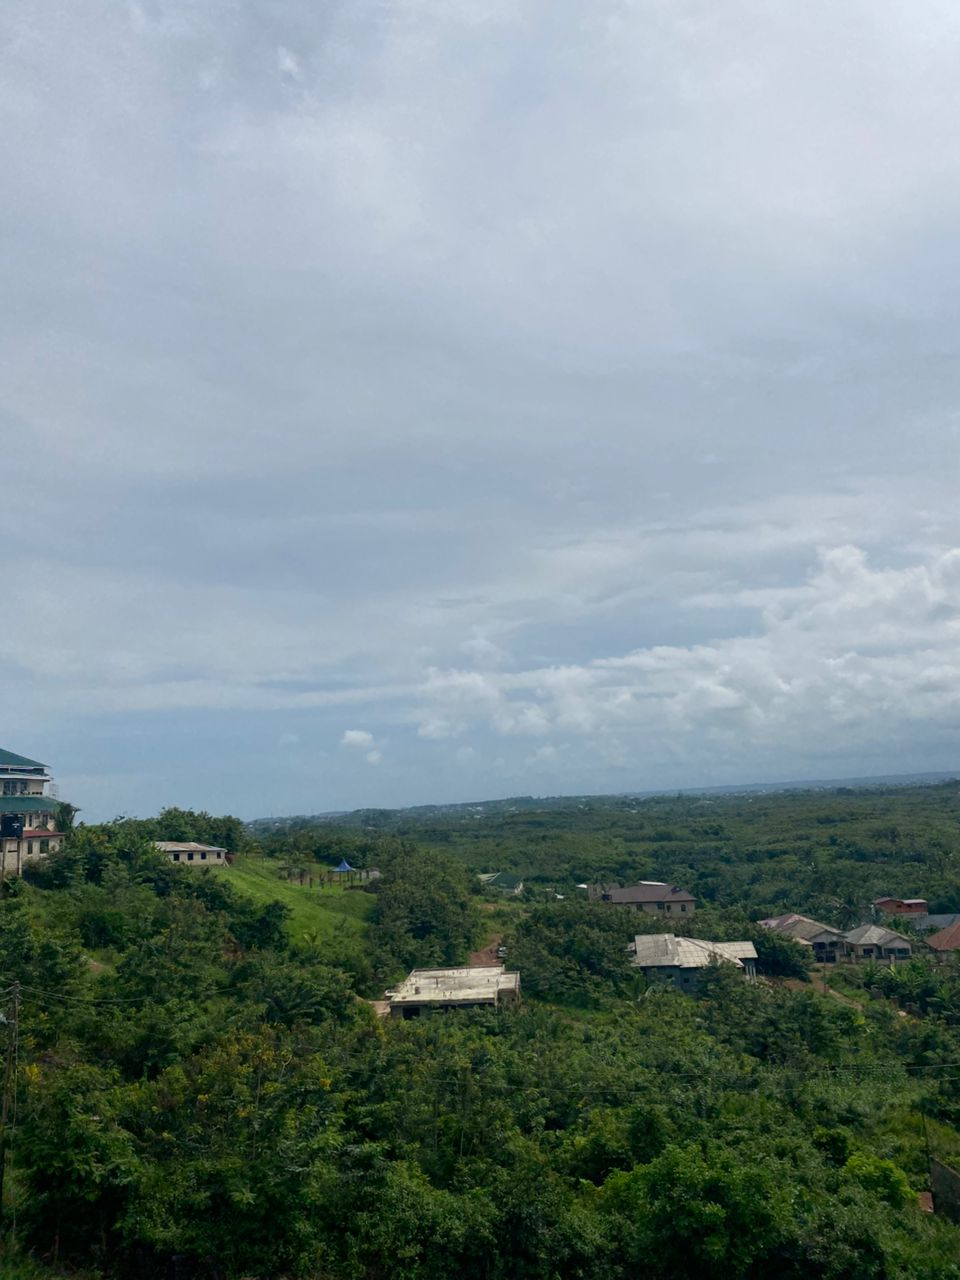
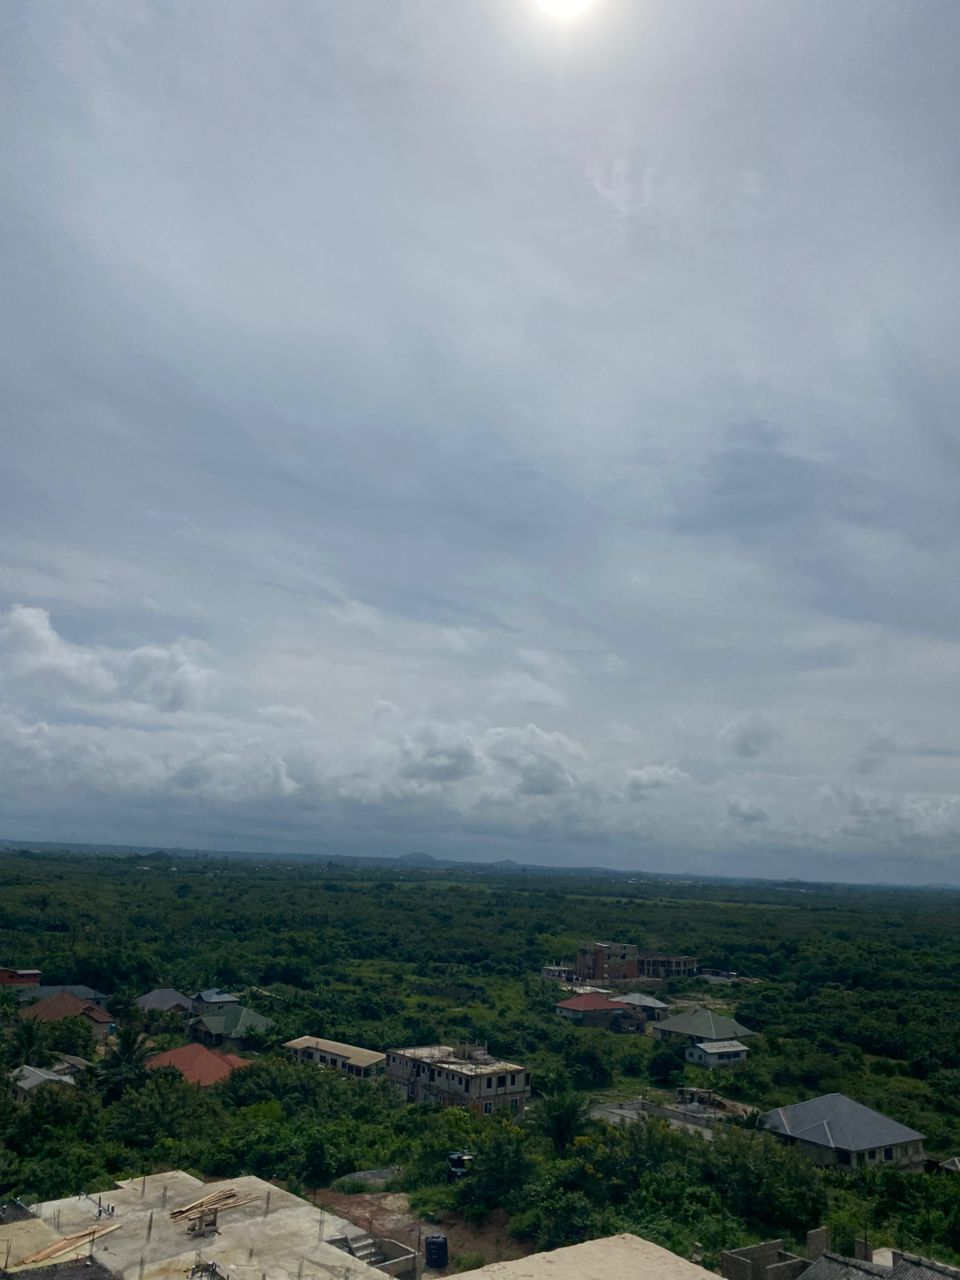
Add files via upload

diff --git a/index.html b/index.html
@@ -1,7 +1,9 @@
-<!doctype html><html lang="en"><head><meta charset="utf-8"><meta name="viewport" content="width=device-width,initial-scale=1"><title>Hillview Residence | Elevated Living in Cape Coast</title><meta name="description" content="Hillview Residence offers modern accommodation in Cape Coast with panoramic hill views, secure facilities, student rooms, and furnished two-bedroom apartments."><link rel="stylesheet" href="css/style.css"></head><body><header class="topbar"><nav class="nav"><a class="brand" href="index.html"><img src="images/logo.png" alt="Hillview Residence logo"><span>Hillview Residence</span></a><div class="navlinks"><a href="index.html">Home</a><a href="accommodation.html">Accommodation</a><a href="gallery.html">Gallery</a><a href="faq.html">FAQ</a><a href="contact.html">Contact</a><a class="btn btn-dark" data-portal href="portal.html">Reservations Portal</a></div></nav></header>
-
-<section class="hero"><div class="hero-inner"><div class="eyebrow">Cape Coast • Near UCC</div><h1>Elevated Living.<br>Exceptional Comfort.</h1><p>Perched on the hills of Cape Coast, Hillview Residence offers thoughtfully designed accommodation with panoramic views, modern amenities, and a peaceful environment for study, work, and relaxation.</p><div class="hero-actions"><a class="btn btn-primary" data-portal href="portal.html">Reserve Accommodation</a><a class="btn btn-outline" href="accommodation.html">Explore Accommodation</a></div></div></section>
-<section class="section"><h2 class="section-title">Welcome to Hillview Residence</h2><p class="lead">A private residence designed for students, families, professionals, visiting scholars, and short-term guests who value comfort, security, convenience, and a beautiful setting.</p><div class="grid grid-3"><div class="card feature"><div class="icon">⌂</div><div><h3>Modern Rooms & Apartments</h3><p>Academic-year student rooms and furnished two-bedroom apartments for shorter stays.</p></div></div><div class="card feature"><div class="icon">◉</div><div><h3>Secure & Managed</h3><p>CCTV in common areas, electric fencing, controlled access, and on-site support.</p></div></div><div class="card feature"><div class="icon">☀</div><div><h3>Panoramic Hill Views</h3><p>A peaceful elevated location with open views across Cape Coast.</p></div></div></div></section>
-<section class="section split"><div><h2 class="section-title">Who We Welcome</h2><p class="lead">Hillview Residence is not just student accommodation. It is a flexible residence for people visiting, studying, working, researching, and resting in Cape Coast.</p><div class="grid"><div class="card"><h3>Students & Researchers</h3><p>Long-term accommodation close to the University of Cape Coast, with an online application and payment-status workflow.</p></div><div class="card"><h3>Families & Short-Term Guests</h3><p>Two-bedroom apartment options for visitors, professionals, families, and conference guests.</p></div></div></div><div class="photo tall"><img src="images/view1.png" alt="Hill view from Hillview Residence"></div></section>
-<section class="section"><div class="cta"><div><h2>Ready to reserve?</h2><p>Students who have already made a down payment should complete the application using the same name used for payment.</p></div><a class="btn btn-primary" data-portal href="portal.html">Open Reservations Portal</a></div></section>
-<footer class="footer"><div class="footer-inner"><div><h4>Hillview Residence</h4><p>Elevated Living. Exceptional Comfort. Modern accommodation in Cape Coast for students, families, professionals, researchers, and short-term guests.</p></div><div><h4>Explore</h4><a href="accommodation.html">Accommodation</a><a href="gallery.html">Gallery</a><a href="faq.html">FAQ</a><a href="contact.html">Contact</a></div><div><h4>Contact</h4><p>Madam Margaret<br>[phone redacted]</p><a class="staff" data-admin href="#">Staff Login</a></div></div></footer><script src="js/config.js"></script><script src="js/app.js"></script></body></html>
+<!doctype html><html lang="en"><head><meta charset="utf-8"><meta name="viewport" content="width=device-width,initial-scale=1"><title>Hillview Residence | Cape Coast</title><link rel="stylesheet" href="styles.css"><meta name="description" content="Hillview Residence offers elevated living and exceptional comfort in Cape Coast for students, professionals, families, visiting scholars, and short-term guests."></head><body>
+<nav class="nav"><div class="nav-inner"><a class="brand" href="index.html"><img src="images/logo.png" alt="Hillview Residence logo"><span>Hillview Residence</span></a><div class="links"><a href="about.html">About</a><a href="accommodation.html">Accommodation</a><a href="gallery.html">Gallery</a><a href="contact.html">Contact</a><a class="btn" href="reserve.html">Reserve</a></div></div></nav>
+<header class="hero"><div class="hero-content"><div class="eyebrow">Cape Coast • Ghana</div><h1>Elevated Living.<br>Exceptional Comfort.</h1><p>Perched on the hills of Cape Coast, Hillview Residence offers thoughtfully designed accommodation with scenic views, modern amenities, and a peaceful environment for study, work, and relaxation.</p><div class="hero-actions"><a class="btn gold" href="reserve.html">Reserve Accommodation</a><a class="btn secondary" href="accommodation.html">Explore Accommodation</a></div></div></header>
+<section class="section"><h2>Who We Welcome</h2><p class="lead">Hillview Residence serves a broader community of guests seeking comfort, security, convenience, and a beautiful setting near the University of Cape Coast.</p><div class="grid"><div class="card"><div class="feature">🎓</div><h3>Students</h3><p>Academic-year accommodation for students seeking a secure, quiet, and supportive environment.</p></div><div class="card"><div class="feature">🏡</div><h3>Families & Short-Term Guests</h3><p>Two-bedroom apartments for family visits, professional travel, and flexible short-term stays.</p></div><div class="card"><div class="feature">🌍</div><h3>Visitors & Scholars</h3><p>Comfortable stays for visiting faculty, researchers, exchange students, and international guests.</p></div></div></section>
+<section class="band"><div class="section split"><div><h2>Comfort with a View</h2><p class="lead">Our elevated location is one of Hillview Residence’s strongest features, offering expansive views across Cape Coast while keeping guests close to academic, cultural, and professional destinations.</p><a class="btn" href="gallery.html">View Gallery</a></div><div class="photo"><img src="images/view1.png" alt="Panoramic hill view from Hillview Residence"></div></div></section>
+<section class="section"><h2>Accommodation Options</h2><div class="grid"><div class="card"><h3>Student Rooms</h3><p>Single and shared rooms for academic-year residents.</p><a class="btn" href="reserve.html">Apply for Student Accommodation</a></div><div class="card"><h3>Two-Bedroom Apartments</h3><p>Furnished apartments for families, professionals, researchers, and short-term visitors.</p><a class="btn secondary" href="accommodation.html#apartments">Explore Apartments</a></div><div class="card"><h3>Reservations Portal</h3><p>Submit your application, payment details, and residence agreement securely online.</p><a class="btn secondary" href="https://script.google.com/macros/s/AKfycbzkxoAzushYrDrrcYF8Lr6g3XFR8_5K3DQ_9w8S8syxMFbZKiaD5f1ywVjWcnjeAPbSTQ/exec?v=25">Open Portal</a></div></div></section>
+<section class="section"><div class="cta"><div><h2>Ready to reserve?</h2><p>Applicants who have already made a down payment should complete the reservation form using the same name used for payment.</p></div><a class="btn gold" href="https://script.google.com/macros/s/AKfycbzkxoAzushYrDrrcYF8Lr6g3XFR8_5K3DQ_9w8S8syxMFbZKiaD5f1ywVjWcnjeAPbSTQ/exec?page=reserve&v=25">Start Reservation</a></div></section>
+<footer class="footer"><div class="footer-inner"><div><h3>Hillview Residence</h3><p class="small">Elevated Living. Exceptional Comfort.</p></div><div><strong>Contact</strong><p>Madam Margaret<br>[phone redacted]</p></div><div><strong>Links</strong><p><a href="reserve.html">Reserve</a><br><a href="https://script.google.com/macros/s/AKfycbzkxoAzushYrDrrcYF8Lr6g3XFR8_5K3DQ_9w8S8syxMFbZKiaD5f1ywVjWcnjeAPbSTQ/exec?page=admin&v=25">Staff Login</a></p></div></div></footer>
+</body></html>

diff --git a/about.html b/about.html
@@ -1,4 +1,5 @@
-<!doctype html><html lang="en"><head><meta charset="utf-8"><meta name="viewport" content="width=device-width,initial-scale=1"><title>About | Hillview Residence</title><meta name="description" content="Hillview Residence offers modern accommodation in Cape Coast with panoramic hill views, secure facilities, student rooms, and furnished two-bedroom apartments."><link rel="stylesheet" href="css/style.css"></head><body><header class="topbar"><nav class="nav"><a class="brand" href="index.html"><img src="images/logo.png" alt="Hillview Residence logo"><span>Hillview Residence</span></a><div class="navlinks"><a href="index.html">Home</a><a href="accommodation.html">Accommodation</a><a href="gallery.html">Gallery</a><a href="faq.html">FAQ</a><a href="contact.html">Contact</a><a class="btn btn-dark" data-portal href="portal.html">Reservations Portal</a></div></nav></header>
-
-<section class="page-hero"><h1>About Hillview Residence</h1><p>Modern accommodation in Cape Coast, designed around comfort, security, and exceptional views.</p></section><section class="section split"><div class="photo tall"><img src="images/exterior1.png" alt="Hillview Residence building"></div><div><h2 class="section-title">Elevated Living. Exceptional Comfort.</h2><p class="lead">Hillview Residence provides a peaceful and carefully managed environment for students, families, professionals, visiting scholars, and short-term guests. Our location on the hills of Cape Coast offers a rare combination of scenic views, modern amenities, and convenient access to the University of Cape Coast.</p><p>Our approach is simple: create a residence that feels secure, calm, well-managed, and welcoming—whether you are staying for an academic year or a shorter visit.</p></div></section>
-<footer class="footer"><div class="footer-inner"><div><h4>Hillview Residence</h4><p>Elevated Living. Exceptional Comfort. Modern accommodation in Cape Coast for students, families, professionals, researchers, and short-term guests.</p></div><div><h4>Explore</h4><a href="accommodation.html">Accommodation</a><a href="gallery.html">Gallery</a><a href="faq.html">FAQ</a><a href="contact.html">Contact</a></div><div><h4>Contact</h4><p>Madam Margaret<br>[phone redacted]</p><a class="staff" data-admin href="#">Staff Login</a></div></div></footer><script src="js/config.js"></script><script src="js/app.js"></script></body></html>
+<!doctype html><html lang="en"><head><meta charset="utf-8"><meta name="viewport" content="width=device-width,initial-scale=1"><title>About | Hillview Residence</title><link rel="stylesheet" href="styles.css"></head><body>
+<nav class="nav"><div class="nav-inner"><a class="brand" href="index.html"><img src="images/logo.png" alt="Hillview Residence logo"><span>Hillview Residence</span></a><div class="links"><a href="about.html">About</a><a href="accommodation.html">Accommodation</a><a href="gallery.html">Gallery</a><a href="contact.html">Contact</a><a class="btn" href="reserve.html">Reserve</a></div></div></nav>
+<header class="page-hero"><div class="wrap"><h1>About Hillview Residence</h1><p>Modern private accommodation in Cape Coast designed for comfort, safety, and peaceful living.</p></div></header>
+<section class="section split"><div><h2>Elevated Living in Cape Coast</h2><p class="lead">Hillview Residence brings together scenic hilltop views, thoughtful amenities, and a secure residential environment for students, families, professionals, visiting scholars, and short-term guests.</p><p>Our goal is to provide a calm, well-managed residence where guests can study, work, rest, and feel at home.</p></div><div class="photo"><img src="images/building1.png" alt="Hillview Residence exterior"></div></section>
+<section class="band"><div class="section"><h2>What We Value</h2><div class="grid"><div class="card"><h3>Comfort</h3><p>Clean, functional, and thoughtfully managed spaces.</p></div><div class="card"><h3>Security</h3><p>CCTV, electric fencing, controlled access, and attentive management.</p></div><div class="card"><h3>Community</h3><p>A respectful environment for residents and guests.</p></div></div></div></section><footer class="footer"><div class="footer-inner"><div><h3>Hillview Residence</h3><p class="small">Elevated Living. Exceptional Comfort.</p></div><div>Madam Margaret<br>024 221 5389</div><div><a href="reserve.html">Reserve</a></div></div></footer></body></html>

diff --git a/accommodation.html b/accommodation.html
@@ -1,6 +1,1 @@
-<!doctype html><html lang="en"><head><meta charset="utf-8"><meta name="viewport" content="width=device-width,initial-scale=1"><title>Accommodation | Hillview Residence</title><meta name="description" content="Hillview Residence offers modern accommodation in Cape Coast with panoramic hill views, secure facilities, student rooms, and furnished two-bedroom apartments."><link rel="stylesheet" href="css/style.css"></head><body><header class="topbar"><nav class="nav"><a class="brand" href="index.html"><img src="images/logo.png" alt="Hillview Residence logo"><span>Hillview Residence</span></a><div class="navlinks"><a href="index.html">Home</a><a href="accommodation.html">Accommodation</a><a href="gallery.html">Gallery</a><a href="faq.html">FAQ</a><a href="contact.html">Contact</a><a class="btn btn-dark" data-portal href="portal.html">Reservations Portal</a></div></nav></header>
-
-<section class="page-hero"><h1>Accommodation</h1><p>Flexible accommodation options for academic-year stays and short-term visits in Cape Coast.</p></section>
-<section class="section grid grid-2"><article class="card accom-card"><img src="images/exterior1.png" alt="Hillview exterior"><div class="body"><span class="badge">Academic Year</span><h3>Student Rooms</h3><p>Single and shared occupancy options for students and researchers. Students complete an online application, accept the residence agreement, and track payment and move-in eligibility.</p><br><a class="btn btn-dark" data-student href="#">Apply for Student Accommodation</a></div></article><article class="card accom-card"><img src="images/view2.png" alt="Views near Hillview Residence"><div class="body"><span class="badge">Short-Term Stays</span><h3>Two-Bedroom Apartments</h3><p>Furnished two-bedroom apartment options for families, visiting faculty, professionals, researchers, conference guests, and short-term visitors.</p><br><a class="btn btn-dark" data-apartment href="#">Request Apartment Booking</a></div></article></section>
-<section class="section"><h2 class="section-title">Amenities</h2><div class="grid grid-3"><div class="card"><h3>Comfort</h3><p>Air-conditioned rooms, kitchen access, refrigerator, microwave, and modern living spaces.</p></div><div class="card"><h3>Security</h3><p>CCTV in common areas, electric fencing, secure gate hours, and managed access.</p></div><div class="card"><h3>Connectivity</h3><p>Complimentary Wi-Fi for residents and guests, subject to fair-use expectations.</p></div><div class="card"><h3>Utilities</h3><p>Water for normal domestic use, prepaid electricity arrangements, and gas cylinder refills by residents where applicable.</p></div><div class="card"><h3>Views</h3><p>Elevated setting with scenic views across Cape Coast.</p></div><div class="card"><h3>Management Support</h3><p>Contact Madam Margaret for reservation support and residence questions.</p></div></div></section>
-<footer class="footer"><div class="footer-inner"><div><h4>Hillview Residence</h4><p>Elevated Living. Exceptional Comfort. Modern accommodation in Cape Coast for students, families, professionals, researchers, and short-term guests.</p></div><div><h4>Explore</h4><a href="accommodation.html">Accommodation</a><a href="gallery.html">Gallery</a><a href="faq.html">FAQ</a><a href="contact.html">Contact</a></div><div><h4>Contact</h4><p>Madam Margaret<br>[phone redacted]</p><a class="staff" data-admin href="#">Staff Login</a></div></div></footer><script src="js/config.js"></script><script src="js/app.js"></script></body></html>
+<!doctype html><html lang="en"><head><meta charset="utf-8"><meta name="viewport" content="width=device-width,initial-scale=1"><title>Accommodation | Hillview Residence</title><link rel="stylesheet" href="styles.css"></head><body><nav class="nav"><div class="nav-inner"><a class="brand" href="index.html"><img src="images/logo.png" alt="Hillview Residence logo"><span>Hillview Residence</span></a><div class="links"><a href="about.html">About</a><a href="accommodation.html">Accommodation</a><a href="gallery.html">Gallery</a><a href="contact.html">Contact</a><a class="btn" href="reserve.html">Reserve</a></div></div></nav><header class="page-hero"><div class="wrap"><h1>Accommodation</h1><p>Flexible options for academic-year residents and short-term guests.</p></div></header><section class="section"><div class="grid"><div class="card"><h3>Student Rooms</h3><p>Single and shared rooms for students seeking long-term accommodation during the academic year.</p><ul><li>Single occupancy</li><li>Shared: two in a room</li><li>Academic-year reservations</li><li>Residence agreement and payment tracking</li></ul><a class="btn" href="reserve.html">Apply Now</a></div><div class="card" id="apartments"><h3>Two-Bedroom Apartments</h3><p>Furnished apartments for shorter-term stays by families, professionals, visiting scholars, and guests.</p><ul><li>Two bedrooms</li><li>Private living space</li><li>Kitchen facilities</li><li>Flexible stays</li></ul><a class="btn secondary" href="contact.html">Enquire</a></div><div class="card"><h3>Amenities</h3><p>Complimentary Wi-Fi, air conditioning, kitchen facilities, water supply, security cameras, electric fencing, and scenic views.</p></div></div></section><section class="band"><div class="section split"><div><h2>Designed for Work, Study, and Rest</h2><p class="lead">Hillview Residence is suitable for students, visitors, and families who value quiet surroundings, security, and convenience.</p></div><div class="photo"><img src="images/exterior1.png" alt="Hillview Residence exterior"></div></div></section><footer class="footer"><div class="footer-inner"><div><h3>Hillview Residence</h3></div><div>Madam Margaret<br>[phone redacted]</div><div><a href="reserve.html">Reserve</a></div></div></footer></body></html>

diff --git a/contact.html b/contact.html
@@ -1,4 +1,1 @@
-<!doctype html><html lang="en"><head><meta charset="utf-8"><meta name="viewport" content="width=device-width,initial-scale=1"><title>Contact | Hillview Residence</title><meta name="description" content="Hillview Residence offers modern accommodation in Cape Coast with panoramic hill views, secure facilities, student rooms, and furnished two-bedroom apartments."><link rel="stylesheet" href="css/style.css"></head><body><header class="topbar"><nav class="nav"><a class="brand" href="index.html"><img src="images/logo.png" alt="Hillview Residence logo"><span>Hillview Residence</span></a><div class="navlinks"><a href="index.html">Home</a><a href="accommodation.html">Accommodation</a><a href="gallery.html">Gallery</a><a href="faq.html">FAQ</a><a href="contact.html">Contact</a><a class="btn btn-dark" data-portal href="portal.html">Reservations Portal</a></div></nav></header>
-
-<section class="page-hero"><h1>Contact</h1><p>For reservation questions, application support, and residence information.</p></section><section class="section split"><div><h2 class="section-title">Speak with us</h2><p class="lead">For more information, contact Madam Margaret.</p><div class="card"><h3>Madam Margaret</h3><p><strong>Phone:</strong> [phone redacted]</p><p><strong>Email:</strong> [email redacted]</p><p><strong>Location:</strong> Cape Coast, near the University of Cape Coast.</p></div><br><a class="btn btn-dark" data-portal href="#">Open Reservations Portal</a></div><div class="photo medium"><img src="images/exterior1.png" alt="Hillview Residence exterior"></div></section>
-<footer class="footer"><div class="footer-inner"><div><h4>Hillview Residence</h4><p>Elevated Living. Exceptional Comfort. Modern accommodation in Cape Coast for students, families, professionals, researchers, and short-term guests.</p></div><div><h4>Explore</h4><a href="accommodation.html">Accommodation</a><a href="gallery.html">Gallery</a><a href="faq.html">FAQ</a><a href="contact.html">Contact</a></div><div><h4>Contact</h4><p>Madam Margaret<br>[phone redacted]</p><a class="staff" data-admin href="#">Staff Login</a></div></div></footer><script src="js/config.js"></script><script src="js/app.js"></script></body></html>
+<!doctype html><html lang="en"><head><meta charset="utf-8"><meta name="viewport" content="width=device-width,initial-scale=1"><title>Contact | Hillview Residence</title><link rel="stylesheet" href="styles.css"></head><body><nav class="nav"><div class="nav-inner"><a class="brand" href="index.html"><img src="images/logo.png" alt="Hillview Residence logo"><span>Hillview Residence</span></a><div class="links"><a href="about.html">About</a><a href="accommodation.html">Accommodation</a><a href="gallery.html">Gallery</a><a href="contact.html">Contact</a><a class="btn" href="reserve.html">Reserve</a></div></div></nav><header class="page-hero"><div class="wrap"><h1>Contact Hillview Residence</h1><p>For reservations, enquiries, and assistance.</p></div></header><section class="section split"><div><h2>Speak with Management</h2><p class="lead">For assistance with student applications, apartment enquiries, payments, or move-in information, contact Madam Margaret.</p><div class="contact-card"><h3>Madam Margaret</h3><p><strong>Phone:</strong> [phone redacted]</p><p><strong>Email:</strong> [email redacted]</p><p><strong>Location:</strong> Cape Coast, Ghana</p></div></div><div class="photo"><img src="images/view2.png" alt="View from Hillview Residence"></div></section><footer class="footer"><div class="footer-inner"><div><h3>Hillview Residence</h3></div><div>Madam Margaret<br>[phone redacted]</div><div><a href="reserve.html">Reserve</a></div></div></footer></body></html>

diff --git a/gallery.html b/gallery.html
@@ -1,4 +1,1 @@
-<!doctype html><html lang="en"><head><meta charset="utf-8"><meta name="viewport" content="width=device-width,initial-scale=1"><title>Gallery | Hillview Residence</title><meta name="description" content="Hillview Residence offers modern accommodation in Cape Coast with panoramic hill views, secure facilities, student rooms, and furnished two-bedroom apartments."><link rel="stylesheet" href="css/style.css"></head><body><header class="topbar"><nav class="nav"><a class="brand" href="index.html"><img src="images/logo.png" alt="Hillview Residence logo"><span>Hillview Residence</span></a><div class="navlinks"><a href="index.html">Home</a><a href="accommodation.html">Accommodation</a><a href="gallery.html">Gallery</a><a href="faq.html">FAQ</a><a href="contact.html">Contact</a><a class="btn btn-dark" data-portal href="portal.html">Reservations Portal</a></div></nav></header>
-
-<section class="page-hero"><h1>Gallery</h1><p>Explore the views, exterior spaces, and setting of Hillview Residence.</p></section><section class="section"><div class="gallery"><img src="images/hero.png" alt="Hillview driveway and view"><img src="images/exterior1.png" alt="Hillview exterior"><img src="images/view1.png" alt="Panoramic view"><img src="images/view2.png" alt="Landscape view"><img src="images/exterior2.png" alt="Residence exterior"><img src="images/logo.png" alt="Hillview Residence logo"></div></section>
-<footer class="footer"><div class="footer-inner"><div><h4>Hillview Residence</h4><p>Elevated Living. Exceptional Comfort. Modern accommodation in Cape Coast for students, families, professionals, researchers, and short-term guests.</p></div><div><h4>Explore</h4><a href="accommodation.html">Accommodation</a><a href="gallery.html">Gallery</a><a href="faq.html">FAQ</a><a href="contact.html">Contact</a></div><div><h4>Contact</h4><p>Madam Margaret<br>[phone redacted]</p><a class="staff" data-admin href="#">Staff Login</a></div></div></footer><script src="js/config.js"></script><script src="js/app.js"></script></body></html>
+<!doctype html><html lang="en"><head><meta charset="utf-8"><meta name="viewport" content="width=device-width,initial-scale=1"><title>Gallery | Hillview Residence</title><link rel="stylesheet" href="styles.css"></head><body><nav class="nav"><div class="nav-inner"><a class="brand" href="index.html"><img src="images/logo.png" alt="Hillview Residence logo"><span>Hillview Residence</span></a><div class="links"><a href="about.html">About</a><a href="accommodation.html">Accommodation</a><a href="gallery.html">Gallery</a><a href="contact.html">Contact</a><a class="btn" href="reserve.html">Reserve</a></div></div></nav><header class="page-hero"><div class="wrap"><h1>Gallery</h1><p>Views, exterior spaces, and the Hillview setting.</p></div></header><section class="section"><h2>Explore the Residence</h2><div class="gallery"><img src="images/hero.png" alt="Hillview Residence"><img src="images/view1.png" alt="Hill view"><img src="images/view2.png" alt="Landscape view"><img src="images/building1.png" alt="Building exterior"><img src="images/exterior1.png" alt="Exterior"><img src="images/exterior2.png" alt="Exterior view"></div></section><footer class="footer"><div class="footer-inner"><div><h3>Hillview Residence</h3></div><div>Madam Margaret<br>[phone redacted]</div><div><a href="reserve.html">Reserve</a></div></div></footer></body></html>

diff --git a/portal.html b/portal.html
@@ -1,2 +1,1 @@
-<!doctype html><html lang="en"><head><meta charset="utf-8"><meta name="viewport" content="width=device-width,initial-scale=1"><title>Reservations Portal | Hillview Residence</title><meta name="description" content="Hillview Residence offers modern accommodation in Cape Coast with panoramic hill views, secure facilities, student rooms, and furnished two-bedroom apartments."><link rel="stylesheet" href="css/style.css"></head><body><header class="topbar"><nav class="nav"><a class="brand" href="index.html"><img src="images/logo.png" alt="Hillview Residence logo"><span>Hillview Residence</span></a><div class="navlinks"><a href="index.html">Home</a><a href="accommodation.html">Accommodation</a><a href="gallery.html">Gallery</a><a href="faq.html">FAQ</a><a href="contact.html">Contact</a><a class="btn btn-dark" data-portal href="portal.html">Reservations Portal</a></div></nav></header>
-<section class="page-hero"><h1>Reservations Portal</h1><p>Choose the reservation pathway that matches your stay.</p></section><main class="portal-box"><div class="portal-card"><h2 class="section-title">What would you like to reserve?</h2><p class="lead">Student rooms follow the academic-year application process. Two-bedroom apartments are for short-term stays by families, professionals, visitors, and researchers.</p><div class="grid grid-2"><a class="card" data-student href="#"><h3>🎓 Student Room</h3><p>Apply for long-term student accommodation, submit payment details, and accept the residence agreement.</p></a><a class="card" data-apartment href="#"><h3>🏡 Two-Bedroom Apartment</h3><p>Request a short-term or extended apartment stay in Cape Coast.</p></a></div><div class="notice">Already made a down payment? Complete the student application using the same name used for payment so management can match your payment with your reservation.</div><p><a class="staff" data-admin href="#">Staff Login</a></p></div></main><footer class="footer"><div class="footer-inner"><div><h4>Hillview Residence</h4><p>Elevated Living. Exceptional Comfort. Modern accommodation in Cape Coast for students, families, professionals, researchers, and short-term guests.</p></div><div><h4>Explore</h4><a href="accommodation.html">Accommodation</a><a href="gallery.html">Gallery</a><a href="faq.html">FAQ</a><a href="contact.html">Contact</a></div><div><h4>Contact</h4><p>Madam Margaret<br>[phone redacted]</p><a class="staff" data-admin href="#">Staff Login</a></div></div></footer><script src="js/config.js"></script><script src="js/app.js"></script></body></html>
+<!doctype html><html lang="en"><head><meta charset="utf-8"><meta name="viewport" content="width=device-width,initial-scale=1"><title>Portal | Hillview Residence</title><link rel="stylesheet" href="styles.css"><meta http-equiv="refresh" content="0; url=https://script.google.com/macros/s/AKfycbzkxoAzushYrDrrcYF8Lr6g3XFR8_5K3DQ_9w8S8syxMFbZKiaD5f1ywVjWcnjeAPbSTQ/exec?v=25"></head><body><section class="portal-frame"><div class="portal-box"><h1>Opening Reservations Portal...</h1><p><a class="btn" href="https://script.google.com/macros/s/AKfycbzkxoAzushYrDrrcYF8Lr6g3XFR8_5K3DQ_9w8S8syxMFbZKiaD5f1ywVjWcnjeAPbSTQ/exec?v=25">Click here if it does not open automatically</a></p></div></section></body></html>

diff --git a/reserve.html b/reserve.html
@@ -1,2 +1,1 @@
-<!doctype html><html lang="en"><head><meta charset="utf-8"><meta name="viewport" content="width=device-width,initial-scale=1"><title>Reserve | Hillview Residence</title><meta name="description" content="Hillview Residence offers modern accommodation in Cape Coast with panoramic hill views, secure facilities, student rooms, and furnished two-bedroom apartments."><link rel="stylesheet" href="css/style.css"></head><body><header class="topbar"><nav class="nav"><a class="brand" href="index.html"><img src="images/logo.png" alt="Hillview Residence logo"><span>Hillview Residence</span></a><div class="navlinks"><a href="index.html">Home</a><a href="accommodation.html">Accommodation</a><a href="gallery.html">Gallery</a><a href="faq.html">FAQ</a><a href="contact.html">Contact</a><a class="btn btn-dark" data-portal href="portal.html">Reservations Portal</a></div></nav></header>
-<section class="page-hero"><h1>Reservations Portal</h1><p>Choose the reservation pathway that matches your stay.</p></section><main class="portal-box"><div class="portal-card"><h2 class="section-title">What would you like to reserve?</h2><p class="lead">Student rooms follow the academic-year application process. Two-bedroom apartments are for short-term stays by families, professionals, visitors, and researchers.</p><div class="grid grid-2"><a class="card" data-student href="#"><h3>🎓 Student Room</h3><p>Apply for long-term student accommodation, submit payment details, and accept the residence agreement.</p></a><a class="card" data-apartment href="#"><h3>🏡 Two-Bedroom Apartment</h3><p>Request a short-term or extended apartment stay in Cape Coast.</p></a></div><div class="notice">Already made a down payment? Complete the student application using the same name used for payment so management can match your payment with your reservation.</div><p><a class="staff" data-admin href="#">Staff Login</a></p></div></main><footer class="footer"><div class="footer-inner"><div><h4>Hillview Residence</h4><p>Elevated Living. Exceptional Comfort. Modern accommodation in Cape Coast for students, families, professionals, researchers, and short-term guests.</p></div><div><h4>Explore</h4><a href="accommodation.html">Accommodation</a><a href="gallery.html">Gallery</a><a href="faq.html">FAQ</a><a href="contact.html">Contact</a></div><div><h4>Contact</h4><p>Madam Margaret<br>[phone redacted]</p><a class="staff" data-admin href="#">Staff Login</a></div></div></footer><script src="js/config.js"></script><script src="js/app.js"></script></body></html>
+<!doctype html><html lang="en"><head><meta charset="utf-8"><meta name="viewport" content="width=device-width,initial-scale=1"><title>Reserve | Hillview Residence</title><link rel="stylesheet" href="styles.css"></head><body><nav class="nav"><div class="nav-inner"><a class="brand" href="index.html"><img src="images/logo.png" alt="Hillview Residence logo"><span>Hillview Residence</span></a><div class="links"><a href="about.html">About</a><a href="accommodation.html">Accommodation</a><a href="gallery.html">Gallery</a><a href="contact.html">Contact</a><a class="btn" href="reserve.html">Reserve</a></div></div></nav><header class="page-hero"><div class="wrap"><h1>Reservations Portal</h1><p>Apply for student accommodation or enquire about short-term two-bedroom apartments.</p></div></header><section class="portal-frame"><div class="portal-box"><h2>Begin Your Reservation</h2><p class="lead">If you have already made a down payment, complete the reservation form using the same name used for payment so management can match your payment to your application.</p><div class="notice"><strong>Move-in note:</strong> Student residents cannot move in until the outstanding accommodation balance and required security deposit have been paid in full.</div><div class="grid"><div class="card"><h3>Student Accommodation</h3><p>For academic-year room reservations, single occupancy, or shared: two in a room.</p><a class="btn" href="https://script.google.com/macros/s/AKfycbzkxoAzushYrDrrcYF8Lr6g3XFR8_5K3DQ_9w8S8syxMFbZKiaD5f1ywVjWcnjeAPbSTQ/exec?page=reserve&v=25">Start Student Application</a></div><div class="card"><h3>Two-Bedroom Apartments</h3><p>For families, professionals, visiting scholars, and short-term guests.</p><a class="btn secondary" href="contact.html">Enquire About Apartments</a></div><div class="card"><h3>Returning Applicant</h3><p>Open the portal to continue or check application information.</p><a class="btn secondary" href="https://script.google.com/macros/s/AKfycbzkxoAzushYrDrrcYF8Lr6g3XFR8_5K3DQ_9w8S8syxMFbZKiaD5f1ywVjWcnjeAPbSTQ/exec?v=25">Open Portal</a></div></div></div></section><footer class="footer"><div class="footer-inner"><div><h3>Hillview Residence</h3></div><div>Madam Margaret<br>[phone redacted]</div><div><a href="https://script.google.com/macros/s/AKfycbzkxoAzushYrDrrcYF8Lr6g3XFR8_5K3DQ_9w8S8syxMFbZKiaD5f1ywVjWcnjeAPbSTQ/exec?page=admin&v=25">Staff Login</a></div></div></footer></body></html>

diff --git a/styles.css b/styles.css
@@ -1,0 +1,1 @@
+:root{--navy:#0f2a43;--green:#1f6b4a;--gold:#c9a23f;--cream:#f7f3ea;--text:#243142;--muted:#687386;--white:#fff;--shadow:0 18px 50px rgba(15,42,67,.16)}*{box-sizing:border-box}body{margin:0;font-family:Inter,Arial,sans-serif;color:var(--text);background:#fff;line-height:1.6}a{text-decoration:none;color:inherit}.nav{position:sticky;top:0;z-index:20;background:rgba(255,255,255,.94);backdrop-filter:blur(10px);border-bottom:1px solid #e9edf2}.nav-inner{max-width:1180px;margin:auto;display:flex;align-items:center;justify-content:space-between;padding:12px 22px}.brand{display:flex;align-items:center;gap:12px;font-weight:800;color:var(--navy)}.brand img{height:54px;width:auto}.links{display:flex;gap:22px;align-items:center;font-size:15px}.btn{display:inline-flex;align-items:center;justify-content:center;padding:12px 18px;border-radius:999px;background:var(--green);color:#fff;font-weight:700;box-shadow:0 8px 20px rgba(31,107,74,.22)}.btn.secondary{background:#fff;color:var(--navy);border:1px solid #dde4ec;box-shadow:none}.btn.gold{background:var(--gold);color:#172033}.hero{min-height:78vh;display:flex;align-items:center;position:relative;background:url('images/hero.png') center/cover no-repeat;color:#fff}.hero:before{content:"";position:absolute;inset:0;background:linear-gradient(90deg,rgba(8,25,43,.78),rgba(8,25,43,.38),rgba(8,25,43,.15))}.hero-content{position:relative;max-width:1180px;margin:auto;padding:80px 24px}.eyebrow{letter-spacing:.16em;text-transform:uppercase;color:#f1d483;font-size:13px;font-weight:800}.hero h1{font-size:clamp(44px,7vw,82px);line-height:.95;margin:12px 0}.hero p{max-width:670px;font-size:20px}.hero-actions{display:flex;gap:14px;flex-wrap:wrap;margin-top:28px}.section{max-width:1180px;margin:auto;padding:72px 24px}.section h2{font-size:38px;line-height:1.1;color:var(--navy);margin:0 0 14px}.lead{font-size:18px;color:var(--muted);max-width:820px}.grid{display:grid;grid-template-columns:repeat(3,1fr);gap:22px;margin-top:32px}.card{background:#fff;border:1px solid #edf0f4;border-radius:22px;padding:26px;box-shadow:var(--shadow)}.card h3{margin:0 0 8px;color:var(--navy)}.feature{font-size:32px;margin-bottom:10px}.split{display:grid;grid-template-columns:1.05fr .95fr;gap:34px;align-items:center}.photo{border-radius:28px;overflow:hidden;box-shadow:var(--shadow)}.photo img{width:100%;display:block}.band{background:var(--cream)}.gallery{display:grid;grid-template-columns:repeat(3,1fr);gap:16px;margin-top:30px}.gallery img{width:100%;height:260px;object-fit:cover;border-radius:18px;box-shadow:0 8px 25px rgba(0,0,0,.1)}.cta{background:linear-gradient(135deg,var(--navy),#153e5f);color:#fff;border-radius:30px;padding:44px;display:flex;align-items:center;justify-content:space-between;gap:24px}.cta h2{color:#fff;margin:0}.footer{background:#0d2236;color:#d7e3ef;padding:42px 24px}.footer-inner{max-width:1180px;margin:auto;display:grid;grid-template-columns:1.2fr 1fr 1fr;gap:28px}.small{color:#9db0c3;font-size:14px}.page-hero{background:linear-gradient(135deg,var(--navy),#1b5a48);color:#fff;padding:80px 24px}.page-hero .wrap{max-width:1180px;margin:auto}.page-hero h1{font-size:52px;margin:0 0 10px}.portal-frame{max-width:1180px;margin:50px auto;padding:0 24px}.portal-box{border-radius:28px;background:#fff;box-shadow:var(--shadow);padding:34px}.notice{background:#fff7df;border:1px solid #efd98d;border-radius:16px;padding:18px;color:#54400d;margin:18px 0}.contact-card{background:#fff;border-radius:22px;padding:26px;box-shadow:var(--shadow)}@media(max-width:800px){.links{display:none}.grid,.split,.footer-inner{grid-template-columns:1fr}.gallery{grid-template-columns:1fr}.cta{display:block}.hero{min-height:70vh}.brand img{height:44px}}